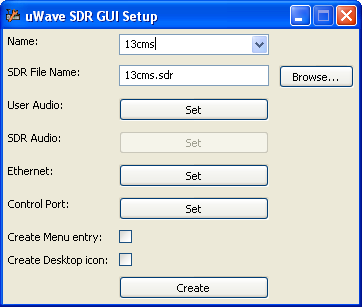
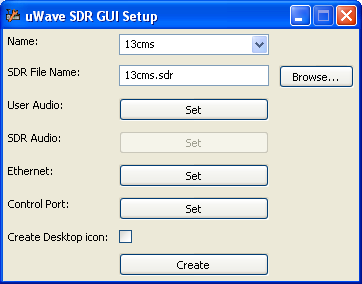
Remove the create start menu option from GUISetup and instead install a generic UWSDR menu entry.

diff --git a/trunk/Software/Help/GUISetup/Overview.htm b/trunk/Software/Help/GUISetup/Overview.htm
@@ -6,11 +6,10 @@
 <p>The purpose of GUISetup is to link the definition of the physical SDR with the file containing information about that SDR, and
 further information about your PC that it needs to run. This must be done before your SDR may be used. Normally this need only be
 done once.</p>
-<p>Before using GUISetup, the program SDRSetup must also be run in order to configure the SDR hardware. This is documented
-elsewhere.</p>
+<p>Before using GUISetup, the program SDRSetup must also be run in order to configure any UWSDR hardware that you may have. This is documented elsewhere.</p>
 <p>The outcome of running GUISetup is that an instance of your SDR, with a name given by you, will be available to use. The program
-will optionally create menu entries and icons, depending on the platform, which will allow you to use the SDR by simply clicking
-on a suitable menu entry or desktop icon.</p>
+will optionally create a desktop icon, depending on the platform, which will allow you to use the SDR by simply clicking
+on it.</p>
 <p>It is possible to have multiple names associated with one SDR, this may be useful if the SDR is used for drastically different
 purposes, such as terrestrial, EME, or satellite use. Each name will be associated with the same hardware but will have separate
 defaults, VFO frequencies and other user selected features. Needless to say only one name may be used at once.</p>

diff --git a/trunk/Software/Help/GUISetup/CreateButton.htm b/trunk/Software/Help/GUISetup/CreateButton.htm
@@ -8,7 +8,7 @@ modify an existing one. If GUISetup detects that an existing SDR name exists, it
 continue before doing so, modifying an existing SDR name will not lose any existing settings, merely update those entries that
 have been changed on the GUISetup screen.</p>
 <p>If everything is in order then the data will be written to the appropriate place and a confimation will be displayed. Clocking
-OK will dismiss both the confirmation screen and the main GUISetup screen also. If GUISetup has been asked to create a menu
-entry or a desktop icon, then they will appear immediately.</p>
+OK will dismiss both the confirmation screen and the main GUISetup screen also. If GUISetup has been asked to create a desktop icon,
+then this will appear immediately.</p>
 </body>
 </html>

diff --git a/trunk/Software/Help/GUISetup/GUI.htm b/trunk/Software/Help/GUISetup/GUI.htm
@@ -3,7 +3,7 @@
 <title>The GUISetup Screen</title>
 </head>
 <body>
-<p><img src="GUISetup.png" width="362" height="307" /></p>
+<p><img src="GUISetup.png" width="362" height="284" /></p>
 <p>This is the screen that allows you to create, or modify, an SDR name. The screens will be broadly similar in appearance on all
 platforms, however the choices available will vary. The availablility of the Set buttons depends on the type of SDR that is
 specified in the SDR file. In all cases the <a href="UserAudio.htm">User Audio</a> will need to be set, and one or none of the other buttons also.</p>

diff --git a/trunk/Software/GUISetup/GUISetupFrame.cpp b/trunk/Software/GUISetup/GUISetupFrame.cpp
@@ -30,13 +30,10 @@
 #endif
 
 #if defined(__WXGTK__)
-const wxChar* XDG_DATA_HOME_ENV = wxT("XDG_DATA_HOME");
-const wxChar* HOME_ENV          = wxT("HOME");
-const wxChar* DEFAULT_DIR       = wxT("/.local/share");
-const wxChar* DESKTOP_DIR       = wxT("/Desktop");
-const wxChar* APPLICATION_DIR   = wxT("/applications");
-const wxChar* UWSDR_FILE        = wxT("UWSDR.desktop");
-const wxChar* NAME_TOKEN        = wxT("@NAME@");
+const wxChar* HOME_ENV      = wxT("HOME");
+const wxChar* DESKTOP_DIR   = wxT("/Desktop");
+const wxChar* SKELETON_FILE = wxT("Skeleton.desktop");
+const wxChar* NAME_TOKEN    = wxT("@NAME@");
 #endif
 
 #if defined(__WINDOWS__)
@@ -88,7 +85,6 @@ CGUISetupFrame::CGUISetupFrame() :
 wxFrame(NULL, -1, wxString(_("uWave SDR GUI Setup")), wxDefaultPosition, wxDefaultSize, wxMINIMIZE_BOX  | wxSYSTEM_MENU | wxCAPTION | wxCLOSE_BOX | wxCLIP_CHILDREN),
 m_name(NULL),
 m_filenameText(NULL),
-m_startMenu(NULL),
 m_deskTop(NULL),
 m_userAudio(NULL),
 m_sdrAudio(NULL),
@@ -180,39 +176,23 @@ m_txOutPin(OUT_NONE)
 
 #if !defined(__WXMAC__)
 #if defined(__WXGTK__)
-	wxString dir;
-	if (getMenuDir(dir)) {
+	if (getDesktopDir(dir)) {
 #endif
-		wxStaticText* label7 = new wxStaticText(panel, -1, _("Create Menu entry:"));
+		wxStaticText* label7 = new wxStaticText(panel, -1, _("Create Desktop icon:"));
 		panelSizer->Add(label7, 0, wxALL, BORDER_SIZE);
 
-		m_startMenu = new wxCheckBox(panel, -1, wxEmptyString);
-		panelSizer->Add(m_startMenu, 0, wxALL, BORDER_SIZE);
+		m_deskTop = new wxCheckBox(panel, -1, wxEmptyString);
+		panelSizer->Add(m_deskTop, 0, wxALL, BORDER_SIZE);
 
 		wxStaticText* dummy6 = new wxStaticText(panel, -1, wxEmptyString);
 		panelSizer->Add(dummy6, 0, wxALL, BORDER_SIZE);
 #if defined(__WXGTK__)
 	}
 #endif
-
-#if defined(__WXGTK__)
-	if (getDesktopDir(dir)) {
-#endif
-		wxStaticText* label8 = new wxStaticText(panel, -1, _("Create Desktop icon:"));
-		panelSizer->Add(label8, 0, wxALL, BORDER_SIZE);
-
-		m_deskTop = new wxCheckBox(panel, -1, wxEmptyString);
-		panelSizer->Add(m_deskTop, 0, wxALL, BORDER_SIZE);
-
-		wxStaticText* dummy7 = new wxStaticText(panel, -1, wxEmptyString);
-		panelSizer->Add(dummy7, 0, wxALL, BORDER_SIZE);
-#if defined(__WXGTK__)
-	}
-#endif
 #endif
 
-	wxStaticText* dummy8 = new wxStaticText(panel, -1, wxEmptyString);
-	panelSizer->Add(dummy8, 0, wxALL, BORDER_SIZE);
+	wxStaticText* dummy7 = new wxStaticText(panel, -1, wxEmptyString);
+	panelSizer->Add(dummy7, 0, wxALL, BORDER_SIZE);
 
 	wxButton* create = new wxButton(panel, CREATE_BUTTON, _("Create"), wxDefaultPosition, wxSize(DATA_WIDTH, -1));
 	panelSizer->Add(create, 0, wxALL, BORDER_SIZE);
@@ -505,25 +485,11 @@ void CGUISetupFrame::onCreate(wxCommandEvent& WXUNUSED(event))
 	if (!found) {
 		::wxMessageBox(_("Cannot find the registry key for the\ninstallation directory. Cannot create\nthe start menu entry."), _("GUISetup Error"), wxICON_ERROR);
 	} else {
-		bool create = m_startMenu->GetValue();
-		if (create)
-			writeStartMenu(name, dir);
-
-		create = m_deskTop->GetValue();
+		bool create = m_deskTop->GetValue();
 		if (create)
 			writeDeskTop(name, dir);
 	}
 #elif defined(__WXGTK__)
-	if (m_startMenu != NULL) {
-		bool create = m_startMenu->GetValue();
-		if (create) {
-			wxString dir;
-			getMenuDir(dir);
-
-			writeDeskTop(name, dir);
-		}
-	}
-
 	if (m_deskTop != NULL) {
 		bool create = m_deskTop->GetValue();
 		if (create) {
@@ -705,66 +671,6 @@ void CGUISetupFrame::onPort(wxCommandEvent& WXUNUSED(event))
 
 #if defined(__WXMSW__)
 
-void CGUISetupFrame::writeStartMenu(const wxString& name, const wxString& dir)
-{
-	TCHAR folder[MAX_PATH];
-	BOOL res = ::SHGetSpecialFolderPath(NULL, folder, CSIDL_PROGRAMS, FALSE);
-
-	if (!res) {
-		::wxMessageBox(_("Cannot get the Start Menu folder from Windows"), _("GUISetup Error"), wxICON_ERROR);
-		return;
-	}
-
-	wxString linkName = name + wxT(".lnk");
-	wxString linkPath = wxString(folder) + wxT("\\UWSDR\\") + linkName;
-	wxString exePath  = dir + wxT("\\UWSDR.exe");
-	wxString args     = name;
-
-	HRESULT hRes = ::CoInitialize(NULL);
-	if (!SUCCEEDED(hRes)) {
-		::wxMessageBox(_("Cannot initialise the COM interface"), _("GUISetup Error"), wxICON_ERROR);
-		return;
-	}
-
-	IShellLink* pShellLink;
-	hRes = ::CoCreateInstance(CLSID_ShellLink, NULL,
-								CLSCTX_INPROC_SERVER,
-								IID_IShellLink,
-								(void**)&pShellLink);
-
-	if (!SUCCEEDED(hRes)) {
-		::CoUninitialize();
-		::wxMessageBox(_("Cannot create a COM interface"), _("GUISetup Error"), wxICON_ERROR);
-		return;
-	}
-
-	pShellLink->SetPath(exePath.c_str());
-	pShellLink->SetArguments(args.c_str());
-	pShellLink->SetWorkingDirectory(dir.c_str());
-
-    WORD wszLinkfile[MAX_PATH];
-	::MultiByteToWideChar(CP_ACP, 0, linkPath.c_str(), -1, LPWSTR(wszLinkfile), MAX_PATH);
-
-    IPersistFile* pPersistFile;
-	hRes = pShellLink->QueryInterface(IID_IPersistFile, (void**)&pPersistFile);
-
-	if (!SUCCEEDED(hRes)) {
-		pShellLink->Release();
-		::CoUninitialize();
-		::wxMessageBox(_("Cannot query the COM interface"), _("GUISetup Error"), wxICON_ERROR);
-		return;
-	}
-
-	hRes = pPersistFile->Save(LPCOLESTR(wszLinkfile), TRUE);
-	if (!SUCCEEDED(hRes))
-		::wxMessageBox(_("Cannot save the shortcut file"), _("GUISetup Error"), wxICON_ERROR);
-
-	pPersistFile->Release();
-	pShellLink->Release();
-
-	::CoUninitialize();
-}
-
 void CGUISetupFrame::writeDeskTop(const wxString& name, const wxString& dir)
 {
 	TCHAR folder[MAX_PATH];
@@ -830,7 +736,7 @@ void CGUISetupFrame::writeDeskTop(const wxString& name, const wxString& dir)
 void CGUISetupFrame::writeDeskTop(const wxString& name, const wxString& dir)
 {
 	wxString fileName;
-	fileName.Printf(wxT("%s/%s"), DATA_DIR, UWSDR_FILE);
+	fileName.Printf(wxT("%s/%s"), DATA_DIR, SKELETON_FILE);
 
 	// Open the .desktop template file
 	wxTextFile inFile;
@@ -870,23 +776,6 @@ void CGUISetupFrame::writeDeskTop(const wxString& name, const wxString& dir)
 	inFile.Close();
 }
 
-bool CGUISetupFrame::getMenuDir(wxString& dir) const
-{
-	bool ret = ::wxGetEnv(XDG_DATA_HOME_ENV, &dir);
-
-	if (!ret) {
-		ret = ::wxGetEnv(wxT(HOME_ENV), &dir);
-		if (!ret)
-			return false;
-
-		dir.Append(DEFAULT_DIR);
-	}
-
-	dir.Append(APPLICATION_DIR);
-
-	return wxDir::Exists(dir);
-}
-
 bool CGUISetupFrame::getDesktopDir(wxString& dir) const
 {
 	bool ret = ::wxGetEnv(HOME_ENV, &dir);
@@ -898,4 +787,5 @@ bool CGUISetupFrame::getDesktopDir(wxString& dir) const
 
 	return wxDir::Exists(dir);
 }
+
 #endif

diff --git a/trunk/Software/GUISetup/GUISetupFrame.h b/trunk/Software/GUISetup/GUISetupFrame.h
@@ -41,7 +41,6 @@ class CGUISetupFrame : public wxFrame {
     private:
 	wxComboBox*    m_name;
 	wxTextCtrl*    m_filenameText;
-	wxCheckBox*    m_startMenu;
 	wxCheckBox*    m_deskTop;
 	wxButton*      m_userAudio;
 	wxButton*      m_sdrAudio;
@@ -70,10 +69,8 @@ class CGUISetupFrame : public wxFrame {
 	void enumerateConfigs();
 	void readConfig(const wxString& name);
 #if defined(__WXMSW__)
-	void writeStartMenu(const wxString& name, const wxString& instDir);
 	void writeDeskTop(const wxString& name, const wxString& instDir);
 #elif defined(__WXGTK__)
-	bool getMenuDir(wxString& dir) const;
 	bool getDesktopDir(wxString& dir) const;
 	void writeDeskTop(const wxString& name, const wxString& instDir);
 #endif

diff --git a/trunk/Software/Common/Common.h b/trunk/Software/Common/Common.h
@@ -22,7 +22,7 @@
 #include <wx/wx.h>
 #include <wx/datetime.h>
 
-const wxString VERSION  = wxT("uWave SDR 0.8");
+const wxString VERSION  = wxT("uWave SDR 0.8.1");
 
 const wxDateTime::wxDateTime_t REL_DATE_DAY   = 8;
 const wxDateTime::Month        REL_DATE_MONTH = wxDateTime::Mar;
